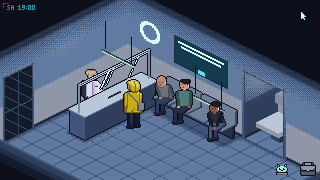
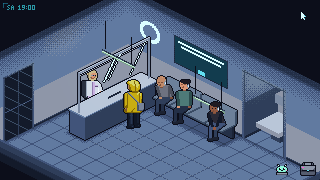
The glass on the clinic's reception reaches 2.15 m now instead of 1.75 m, as the user asked (2026-11-17): its top edge ran across Marit's face, and now one sees her behind the pane from the head to the chest, the edge above her. The block room's sheet docs/rooms/klinik_blocks_* is new. validate 0 er

Changed region(s): [[0.2188, 0.1944, 0.4688, 0.5], [0.375, 0.4167, 0.4062, 0.4444]]

diff --git a/assets/room_klinik.js b/assets/room_klinik.js
@@ -1,12 +1,12 @@
 // Generated by tools/build-atlas.mjs. Do not edit.
 Cutaway.assets.pack({
   images: {
[2 lines of base64/hex data omitted]
   },
   anims: {
-    "klinik_reception": { image: "room_klinik_atlas", frames: [[126,365,91,93,100]] },
-    "klinik_seats": { image: "room_klinik_atlas", frames: [[219,365,86,63,100]] },
+    "klinik_reception": { image: "room_klinik_atlas", frames: [[323,183,91,105,100]] },
+    "klinik_seats": { image: "room_klinik_atlas", frames: [[251,365,86,63,100]] },
     "klinik_bg": { image: "room_klinik_atlas", frames: [[1,1,320,180,100],[323,1,320,180,100],[645,1,320,180,100],[1,183,320,180,100],[1,1,320,180,100],[323,1,320,180,100],[645,1,320,180,100],[1,183,320,180,100],[1,1,320,180,100],[323,1,320,180,100],[645,1,320,180,100],[1,183,320,180,100]] },
-    "klinik_tubes": { image: "room_klinik_atlas", frames: [[323,183,123,93,100],[448,183,123,93,100],[573,183,123,93,100],[448,183,123,93,100],[698,183,123,93,100],[448,183,123,93,100],[573,183,123,93,100],[448,183,123,93,100],[323,183,123,93,100],[823,183,123,93,100],[1,365,123,93,100],[448,183,123,93,100]] },
+    "klinik_tubes": { image: "room_klinik_atlas", frames: [[416,183,123,93,100],[541,183,123,93,100],[666,183,123,93,100],[541,183,123,93,100],[791,183,123,93,100],[541,183,123,93,100],[666,183,123,93,100],[541,183,123,93,100],[416,183,123,93,100],[1,365,123,93,100],[126,365,123,93,100],[541,183,123,93,100]] },
   },
 });

diff --git a/game/rooms/klinik.layout.js b/game/rooms/klinik.layout.js
@@ -3,4 +3,4 @@
 "use strict";
 
 Nagiwa.layouts = Nagiwa.layouts || {};
-Nagiwa.layouts["klinik"] = {"walk":[[240,142,308,176,308,176,76,176,12,144,48,126,60,132,58,133,84,146,148,114,222,151]],"holes":[],"props":{"reception":{"front":[51,123,70,133,85,140,155,105,174,95],"baseline":140,"poly":[141,45,155,52,155,105,85,140,70,133,70,80],"at":[112,141],"box":[67,48,91,93],"sprite":"klinik_reception","shape":[66,108,76,83,147,47,152,48,159,79,157,106,87,142,83,142,68,134]},"seats":{"front":[133,100,152,110,222,145,238,137,258,127],"baseline":145,"poly":[168,76,238,111,238,137,222,145,152,110,152,84],"at":[195,139],"box":[152,76,86,63],"sprite":"klinik_seats","shape":[151,96,166,75,172,75,238,108,239,125,235,140,229,140,152,101]},"scanner":{"front":[237,130,256,139,278,150,306,137,325,127],"baseline":150,"poly":[283,88,306,99,306,137,278,150,256,139,256,102]},"tubes":{"front":[78,118,97,127,225,191,227,190,246,181],"baseline":191,"poly":[99,48,227,112,227,190,225,191,97,127,97,49],"at":[163,114],"box":[101,19,125,95],"sprite":"klinik_tubes","shape":[103,18,106,18,107,49,129,59,129,34,132,34,132,61,135,62,135,68,100,52,100,46,103,46]}},"openings":{"ring":[138,14,26,38],"screen":[173,33,58,59],"cabin":[244,71,41,89],"door":[4,64,30,80]},"openingPolys":{"ring":[139,39,162,50,162,26,139,15],"screen":[174,63,229,90,229,61,174,34],"cabin":[245,138,283,158,283,92,245,72],"door":[32,128,5,142,5,79,32,65]},"zonePolys":{},"spots":{"arrive":[35,144],"door":[29,141],"nurse":[93,109],"reception":[133,129],"wait1":[167,111],"wait2":[185,120],"wait3":[203,128],"wait4":[220,137],"cabin":[251,154]},"face":{"arrive":"se","door":"nw","nurse":"se","reception":"nw","wait1":"sw","wait2":"sw","wait3":"sw","wait4":"sw","cabin":"ne"},"lamps":[{"id":"tube1","at":[124,62],"r":150,"power":1,"color":"#e8f4ff","flicker":0.02,"bake":{"family":"cold","line":[[1.2,1.93,2.6],[2.6,1.93,2.6]],"reach":3.6,"power":1.5,"wrap":0.5}},{"id":"tube2","at":[194,97],"r":150,"power":1,"color":"#e8f4ff","flicker":0.02,"bake":{"family":"cold","line":[[3.6,1.93,2.6],[4.8,1.93,2.6]],"reach":3.6,"power":1.5,"wrap":0.5}},{"id":"screen","at":[198,64],"r":60,"power":0.6,"color":"#62def0","bake":{"family":"cyan","reach":1.6,"power":1}},{"id":"cabin","at":[283,78],"r":40,"power":0.6,"color":"#dafcff","zone":"cabin","bake":{"family":"cold","reach":2,"power":1.2}}]};
+Nagiwa.layouts["klinik"] = {"walk":[[240,142,308,176,308,176,76,176,12,144,48,126,60,132,58,133,84,146,148,114,222,151]],"holes":[],"props":{"reception":{"front":[51,123,70,133,85,140,155,105,174,95],"baseline":140,"poly":[141,33,155,40,155,105,85,140,70,133,70,68],"at":[112,141],"box":[67,36,91,105],"sprite":"klinik_reception","shape":[66,108,76,71,147,35,152,36,159,79,157,106,87,142,83,142,68,134]},"seats":{"front":[133,100,152,110,222,145,238,137,258,127],"baseline":145,"poly":[168,76,238,111,238,137,222,145,152,110,152,84],"at":[195,139],"box":[152,76,86,63],"sprite":"klinik_seats","shape":[151,96,166,75,172,75,238,108,239,125,235,140,229,140,152,101]},"scanner":{"front":[237,130,256,139,278,150,306,137,325,127],"baseline":150,"poly":[283,88,306,99,306,137,278,150,256,139,256,102]},"tubes":{"front":[78,118,97,127,225,191,227,190,246,181],"baseline":191,"poly":[99,48,227,112,227,190,225,191,97,127,97,49],"at":[163,114],"box":[101,19,125,95],"sprite":"klinik_tubes","shape":[103,18,106,18,107,49,129,59,129,34,132,34,132,61,135,62,135,68,100,52,100,46,103,46]}},"openings":{"ring":[138,14,26,38],"screen":[173,33,58,59],"cabin":[244,71,41,89],"door":[4,64,30,80]},"openingPolys":{"ring":[139,39,162,50,162,26,139,15],"screen":[174,63,229,90,229,61,174,34],"cabin":[245,138,283,158,283,92,245,72],"door":[32,128,5,142,5,79,32,65]},"zonePolys":{},"spots":{"arrive":[35,144],"door":[29,141],"nurse":[93,109],"reception":[133,129],"wait1":[167,111],"wait2":[185,120],"wait3":[203,128],"wait4":[220,137],"cabin":[251,154]},"face":{"arrive":"se","door":"nw","nurse":"se","reception":"nw","wait1":"sw","wait2":"sw","wait3":"sw","wait4":"sw","cabin":"ne"},"lamps":[{"id":"tube1","at":[124,62],"r":150,"power":1,"color":"#e8f4ff","flicker":0.02,"bake":{"family":"cold","line":[[1.2,1.93,2.6],[2.6,1.93,2.6]],"reach":3.6,"power":1.5,"wrap":0.5}},{"id":"tube2","at":[194,97],"r":150,"power":1,"color":"#e8f4ff","flicker":0.02,"bake":{"family":"cold","line":[[3.6,1.93,2.6],[4.8,1.93,2.6]],"reach":3.6,"power":1.5,"wrap":0.5}},{"id":"screen","at":[198,64],"r":60,"power":0.6,"color":"#62def0","bake":{"family":"cyan","reach":1.6,"power":1}},{"id":"cabin","at":[283,78],"r":40,"power":0.6,"color":"#dafcff","zone":"cabin","bake":{"family":"cold","reach":2,"power":1.2}}]};

diff --git a/art/rooms/klinik.map.js b/art/rooms/klinik.map.js
@@ -34,7 +34,7 @@ ISO_MAPS.klinik = {
   // behind the counter is the nurse's
   nowalk: [[0, 0, 0.75, 2.7]],
   props: [
-    { id: "reception", kit: "kl_reception", at: [0.75, 0.35], foot: [0.45, 2.2], h: 1.75 },
+    { id: "reception", kit: "kl_reception", at: [0.75, 0.35], foot: [0.45, 2.2], h: 2.15 },
     { id: "seats", kit: "kl_seats", at: [1.3, 0.05], foot: [2.2, 0.5], h: 0.85 },
     { id: "scanner", kit: "kl_scanner", at: [3.85, -1.0], foot: [0.7, 0.85], h: 1.25, behind: "cabin" },
     { id: "tubes", kit: "lm_tubes", at: [1.0, 1.9], foot: [4.0, 0.06], h: 2.6, block: false },
